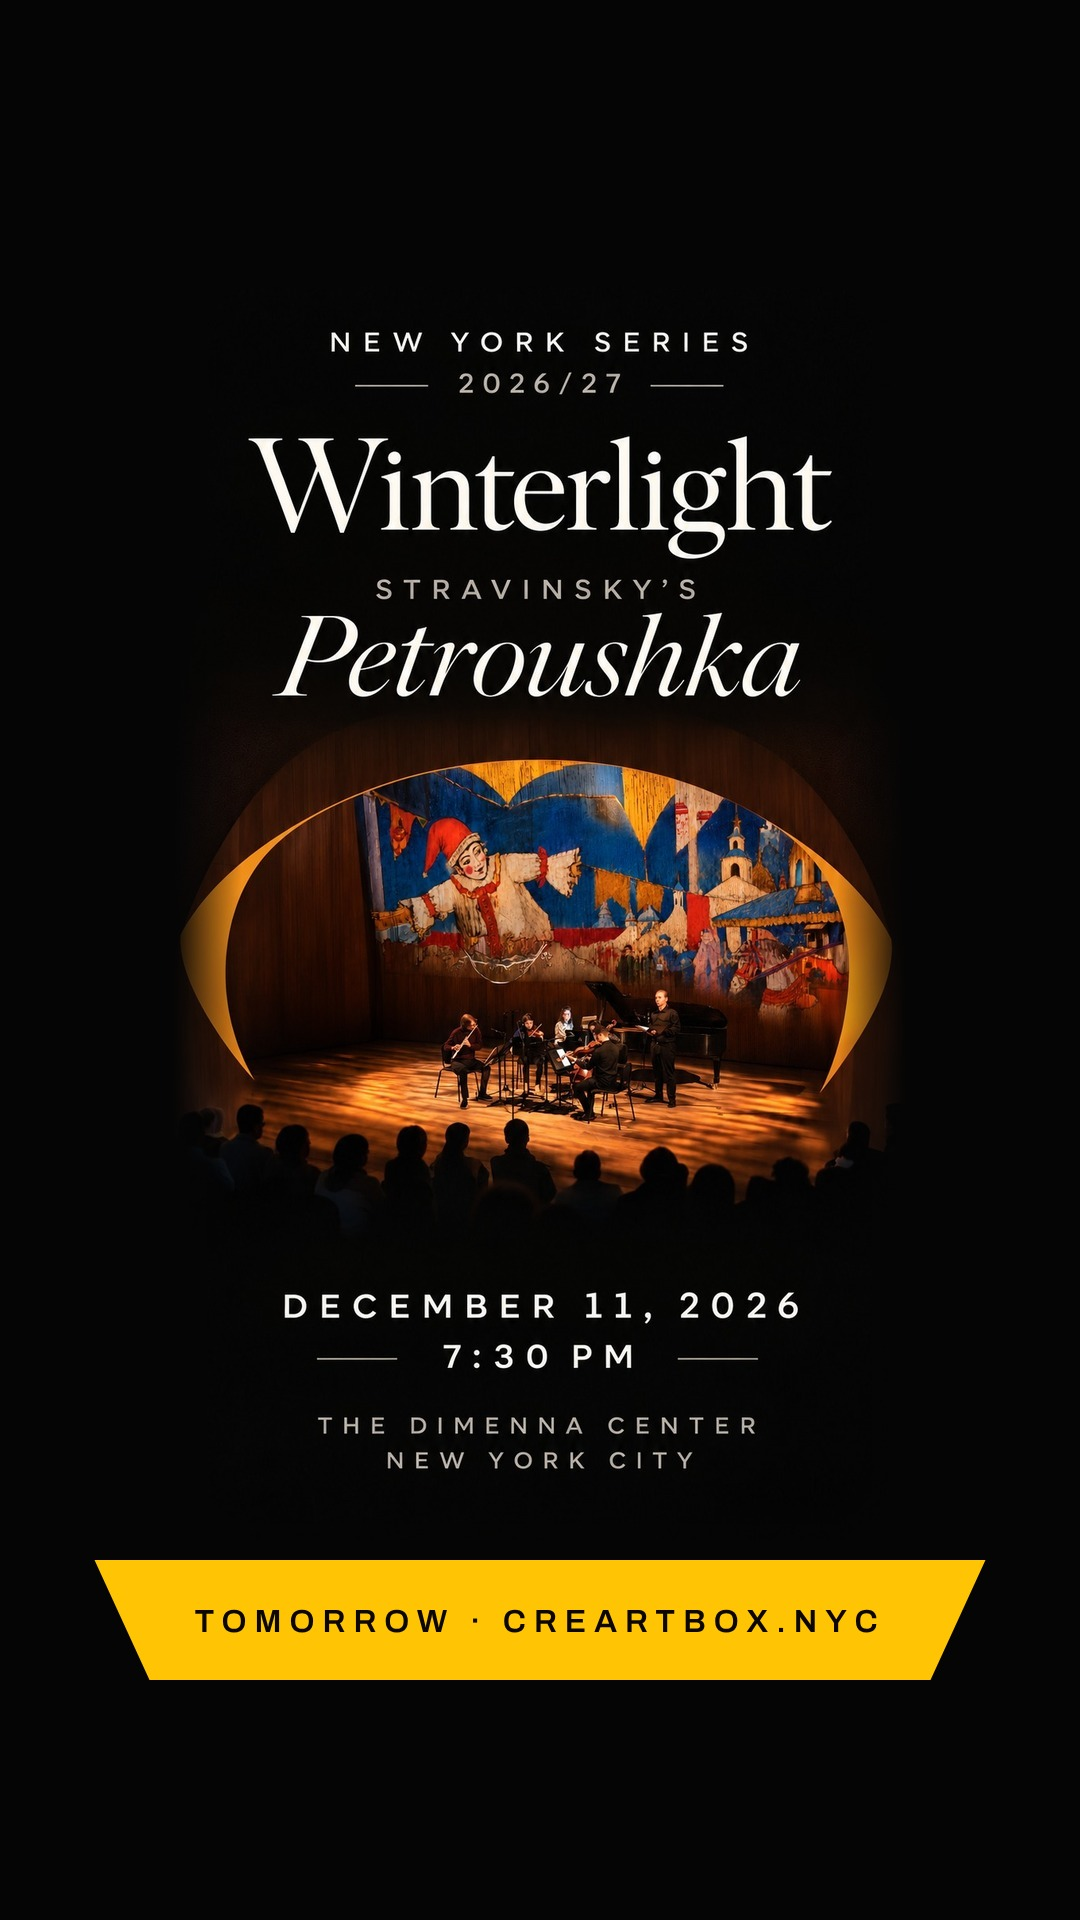
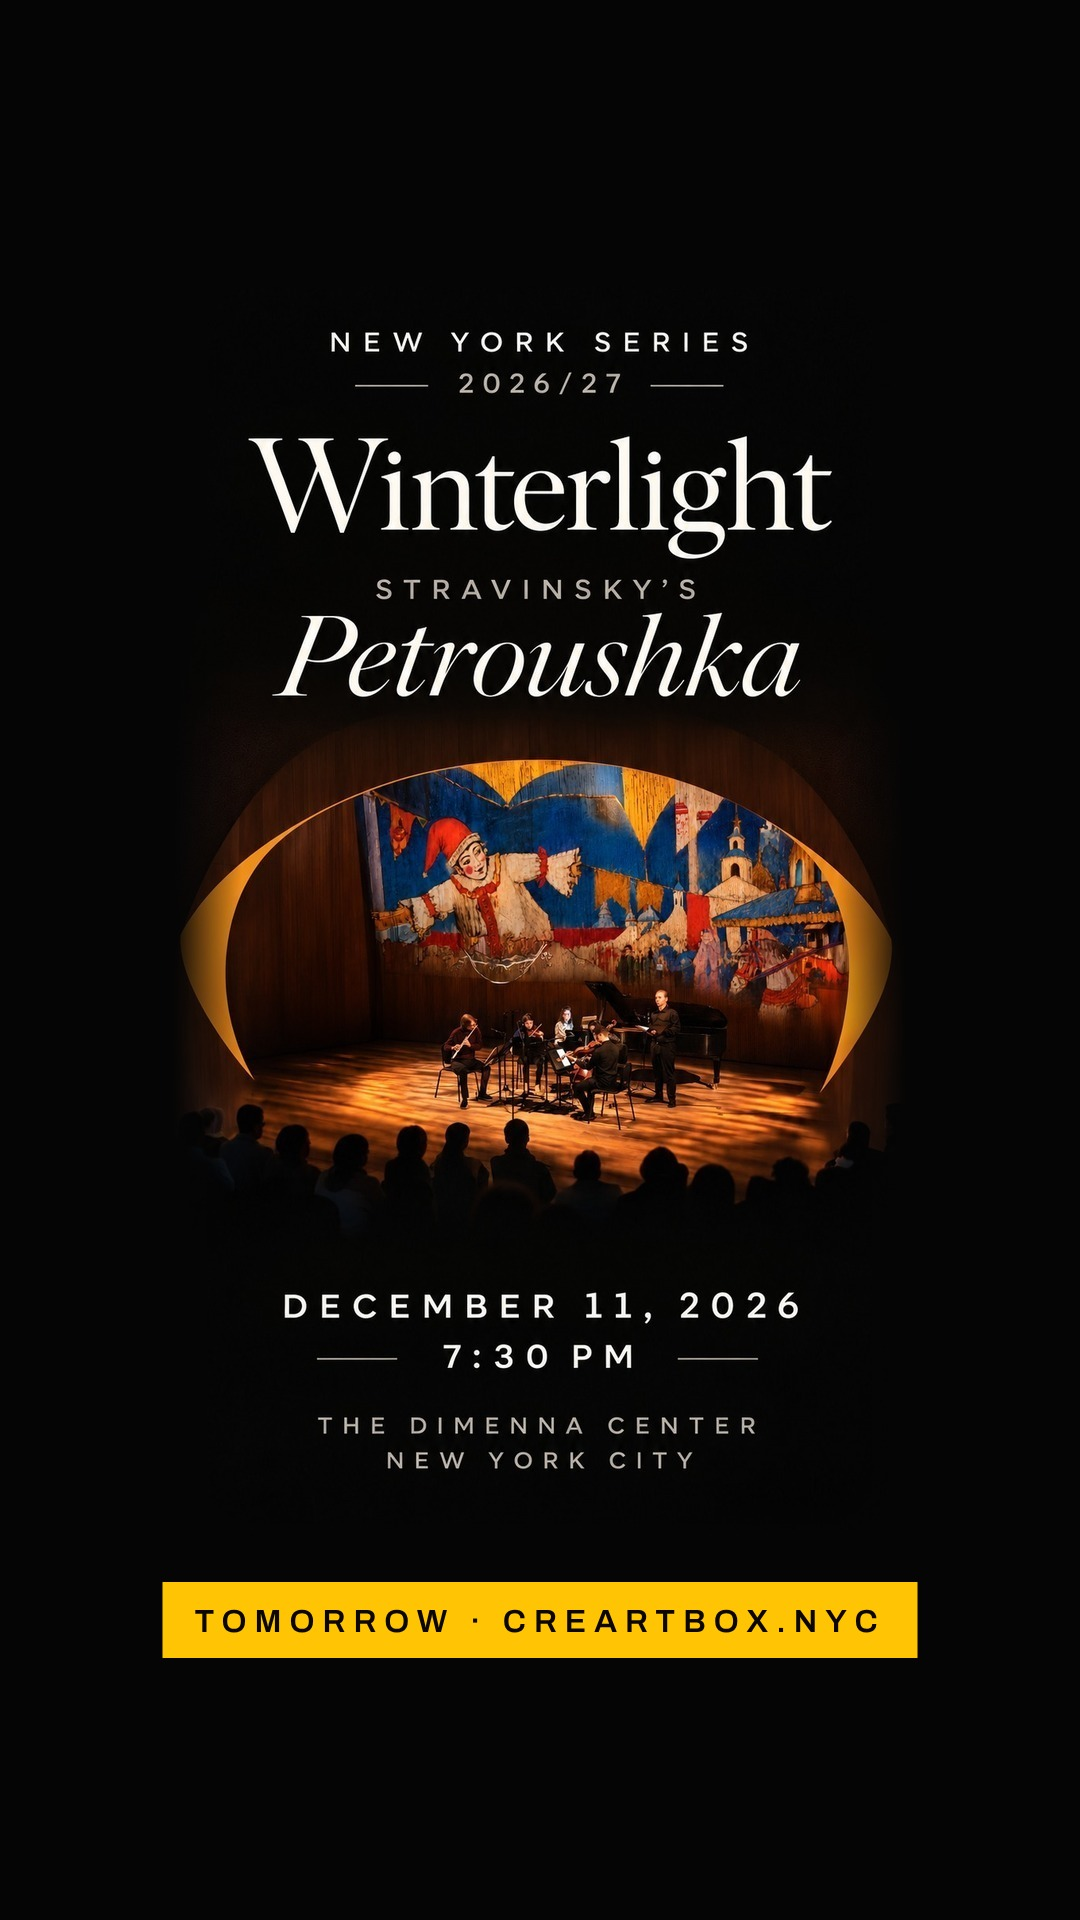
CreArtBox: el trapecio pasa a ser un sello pequeño con el nombre (como una discográfica) y los datos van en cajas rectas encima del titular; cola redibujada
Claude-Session: https://claude.ai/code/session_0135dvaV41U2wFKvXfjD2MLS

Changed region(s): [[0.0917, 0.8125, 0.9167, 0.875]]

diff --git a/motor.js b/motor.js
@@ -443,18 +443,42 @@ export function crearMotor(B) {
       }
     }
 
+    // The brand stamp. CreArtBox's is a small amber trapezoid with its name
+    // inside, like a record label's cartouche (Nov 26); ADAR keeps the text.
+    function sello(x, y) {
+      if (!SELLO) return;
+      if (B.firma !== 'trapecio') { ctx.fillText(SELLO, x, y); return; }
+      const antes = { font: ctx.font, fill: ctx.fillStyle, align: ctx.textAlign };
+      const t = Math.round(rotSize * 1.05);
+      ctx.font = `${B.labelWeight} ${t}px ${LABEL}`;
+      try { ctx.letterSpacing = Math.round(t * 0.3) + 'px'; } catch {}
+      const w = ctx.measureText(SELLO).width;
+      const h = Math.round(t * 2.3), ancho = Math.round(w + t * 2.6), inclina = Math.round(h * 0.4);
+      const x0 = antes.align === 'center' ? x - ancho / 2 : antes.align === 'right' ? x - ancho : x;
+      const yc = y - t * 0.36, arriba = yc - h / 2;
+      ctx.beginPath();
+      ctx.moveTo(x0 + inclina, arriba); ctx.lineTo(x0 + ancho - inclina, arriba);
+      ctx.lineTo(x0 + ancho, arriba + h); ctx.lineTo(x0, arriba + h);
+      ctx.closePath();
+      ctx.fillStyle = B.accent; ctx.fill();
+      ctx.fillStyle = B.onAccent || B.ink; ctx.textAlign = 'center';
+      ctx.fillText(SELLO, x0 + ancho / 2 + t * 0.15, yc + t * 0.38);
+      sinEspaciado(ctx);
+      ctx.font = antes.font; ctx.fillStyle = antes.fill; ctx.textAlign = antes.align;
+    }
+
     function pegatinas(yInicio) {
       // En el muro solo si la ficha lo pide (`pegatinasMuro`): hay posts que
       // quieren el titular y los datos pegados a la foto, como la historia.
       // Solo en la portada; en Facebook nunca, que es apaisado y no cabe.
       const enMuro = post.pegatinasMuro && fmt === 'ig' && idx === 0;
       if ((fmt !== 'story' && !enMuro) || !post.pegatinas || !post.pegatinas.length) return;
-      if (B.firma === 'trapecio') return pegatinasTrapecio(yInicio);
       const alto = Math.round(W * 0.075);
       const cuerpo = Math.round(alto * 0.42);
       let y = yInicio ?? safeTop + Math.round(H * 0.055);
       // Sobre fondo ámbar, la pegatina de señal no se vería: va en negro.
-      const sobreAmbar = estilo === 'ambar';
+      // CreArtBox draws its notices on sala (ink), so its signal box stays amber.
+      const sobreAmbar = estilo === 'ambar' && B.firma !== 'trapecio';
       for (const peg of post.pegatinas.slice(0, 3)) {
         const texto = String(peg.texto || peg).toUpperCase();
         const senal = peg.senal === true;
@@ -466,7 +490,8 @@ export function crearMotor(B) {
         // Tres grados: lo justo para que se lea como algo pegado encima y no
         // como parte de la maqueta. Los bordes siguen rectos, que es la casa.
         ctx.translate(pad + ancho / 2, y + alto / 2);
-        ctx.rotate((-3 * Math.PI) / 180);
+        // CreArtBox: straight boxes. ADAR's are tilted, like tape.
+        ctx.rotate(B.firma === 'trapecio' ? 0 : (-3 * Math.PI) / 180);
         ctx.fillStyle = fondoPeg;
         ctx.fillRect(-ancho / 2, -alto / 2, ancho, alto);
         ctx.fillStyle = tintaPeg;
@@ -491,7 +516,7 @@ export function crearMotor(B) {
         ctx.fillStyle = trap ? B.ink : B.accent; ctx.fillRect(0, 0, W, H);
         const conPeg = (fmt === 'story' || (post.pegatinasMuro && fmt === 'ig')) && post.pegatinas && post.pegatinas.length;
         const arriba = pad + safeTop;
-        if (!conPeg) { rotulo(ctx, rotSize, tinta, Math.round(rotSize * 0.16)); ctx.fillText(SELLO, pad, arriba + rotSize); sinEspaciado(ctx); }
+        if (!conPeg) { rotulo(ctx, rotSize, tinta, Math.round(rotSize * 0.16)); sello(pad, arriba + rotSize); sinEspaciado(ctx); }
         const techo = conPeg ? safeTop + Math.round(H * 0.055) + Math.round(W * 0.075 * 1.35) * Math.min(3, post.pegatinas.length) + pad * 0.6 : arriba + rotSize * 2.4;
         // Si lleva logo, el titular le deja su hueco debajo.
         const conLogo = post.logo && post.logo.src && (fmt === 'story' ? post.logo.historia : (post.logo.diapositivas || []).includes(idx));
@@ -503,12 +528,11 @@ export function crearMotor(B) {
         ctx.font = `${TW} ${af.size}px ${DISPLAY}`; ctx.fillStyle = tinta;
         const ay = suelo - af.lines.length * af.size * PLOMO + af.size * 0.82;
         // CreArtBox centers it under its centered trapezoid, like its program cover.
-        const ax = trap ? W / 2 : pad;
+        const ax = pad;
         const raya = Math.round(W * 0.16);
-        ctx.fillRect(trap ? ax - raya / 2 : pad, ay - af.size * 1.15, raya, Math.max(5, Math.round(W * 0.008)));
-        if (trap) ctx.textAlign = 'center';
+        ctx.fillRect(pad, ay - af.size * 1.15, raya, Math.max(5, Math.round(W * 0.008)));
         af.lines.forEach((l, i) => ctx.fillText(l, ax, ay + i * af.size * PLOMO));
-        if (conPeg) { rotulo(ctx, rotSize, tinta, Math.round(rotSize * 0.16)); ctx.fillText(SELLO, ax, H - safeBottom - Math.round(pad * 0.55)); sinEspaciado(ctx); }
+        if (conPeg) { rotulo(ctx, rotSize, tinta, Math.round(rotSize * 0.16)); sello(ax, H - safeBottom - Math.round(pad * 0.55)); sinEspaciado(ctx); }
         ctx.textAlign = 'left';
         pegatinas();
         await logo(post.logo && (fmt === 'story' ? post.logo.historia : (post.logo.diapositivas || []).includes(idx)));
@@ -526,7 +550,7 @@ export function crearMotor(B) {
         if (post.adorno === 'navidad') navidad();
         const arriba = pad + safeTop;
         rotulo(ctx, rotSize, B.overPhotoInk, Math.round(rotSize * 0.16));
-        ctx.fillText(SELLO, pad, arriba + rotSize);
+        sello(pad, arriba + rotSize);
         sinEspaciado(ctx);
         const cf = encajar(ctx, slide.title, W - pad * 2 - safeRight, H * 0.24, TW, DISPLAY, Math.round(W * 0.15), Math.round(W * 0.06), PLOMO);
         ctx.font = `${TW} ${cf.size}px ${DISPLAY}`; ctx.fillStyle = B.overPhotoInk;
@@ -565,7 +589,7 @@ export function crearMotor(B) {
 
         const bTop = H - bandH + Math.round(pad * 0.75);
         rotulo(ctx, rotSize, TINTA_DIM, Math.round(rotSize * 0.16));
-        ctx.fillText(SELLO, pad, bTop + rotSize);
+        sello(pad, bTop + rotSize);
         sinEspaciado(ctx);
         const bAvail = bandH - Math.round(pad * 0.75) - rotSize * 3.4 - safeBottom;
         const bfit = encajar(ctx, slide.title, W - pad * 2 - safeRight, bAvail, TW, DISPLAY, Math.round(W * 0.070), Math.round(W * 0.032), PLOMO);
@@ -674,7 +698,7 @@ export function crearMotor(B) {
 
         const arriba = pad + safeTop;
         rotulo(ctx, rotSize, TINTA_DIM, Math.round(rotSize * 0.16));
-        ctx.fillText(SELLO, pad, arriba + rotSize);
+        sello(pad, arriba + rotSize);
         sinEspaciado(ctx);
 
         // Las líneas de abajo (fecha, hora, sitio) se reservan su sitio antes
@@ -874,7 +898,7 @@ export function crearMotor(B) {
 
         let y = pad + safeTop + rotSize;
         rotulo(ctx, rotSize, B.paper, Math.round(rotSize * 0.2));
-        ctx.fillText(SELLO, centro, y);
+        sello(centro, y);
         sinEspaciado(ctx);
 
         if (post.kicker) {
@@ -965,15 +989,16 @@ export function crearMotor(B) {
       const fit = encajar(ctx, slide.title, W - pad * 2 - safeRight, maxTitleH, TW, DISPLAY, Math.round(W * 0.072), Math.round(W * 0.034), PLOMO);
       const lineH = Math.round(fit.size * PLOMO);
       // With CreArtBox's trapezoid at the bottom, the title sits just above it.
-      const conTrapecio = trapecioAbajo();
-      const baseY = conTrapecio ? trapecioAbajoTop() - Math.round(pad * 0.75) : H - pad - safeBottom;
+      const conTrapecio = false;
+      const baseY = H - pad - safeBottom;
       const startY = baseY - fit.lines.length * lineH + lineH * 0.8;
 
       ctx.fillStyle = B.accent;
-      ctx.fillRect(pad, startY - lineH * 0.8 - Math.round(rotSize * 2.2), Math.round(W * 0.09), Math.max(3, Math.round(W * 0.005)));
+      // CreArtBox's cartouche is already the signal; no rule above it.
+      if (B.firma !== 'trapecio') ctx.fillRect(pad, startY - lineH * 0.8 - Math.round(rotSize * 2.2), Math.round(W * 0.09), Math.max(3, Math.round(W * 0.005)));
       // Una señal por pantalla: la lleva el filete. El sello baja a dim.
       rotulo(ctx, rotSize, TINTA_DIM, Math.round(rotSize * 0.16));
-      ctx.fillText(SELLO, pad, startY - lineH * 0.8 - Math.round(rotSize * 0.75));
+      sello(pad, startY - lineH * 0.8 - Math.round(rotSize * (B.firma === 'trapecio' ? 1.5 : 0.75)));
       sinEspaciado(ctx);
 
       ctx.font = `${TW} ${fit.size}px ${DISPLAY}`;
@@ -985,7 +1010,14 @@ export function crearMotor(B) {
         ctx.fillText(SITIO, pad, H - Math.round(pad * 0.4) - safeBottom);
         sinEspaciado(ctx);
       }
-      pegatinas();
+      // CreArtBox over a photo: the boxes stack just above the title, where
+      // they don't cover faces (at the top they did).
+      const nCajas = Math.min(3, (post.pegatinas || []).length);
+      if (B.firma === 'trapecio' && nCajas) {
+        const alto = Math.round(W * 0.075);
+        const fondo = startY - lineH * 0.8 - Math.round(rotSize * 4.2);
+        pegatinas(fondo - (nCajas - 1) * Math.round(alto * 1.35) - alto);
+      } else pegatinas();
       return;
     }
 
@@ -1075,7 +1107,7 @@ export function crearMotor(B) {
     rotulo(ctx, rotSize, tPie, Math.round(rotSize * 0.12));
     ctx.fillText(`${String(idx + 1).padStart(2, '0')} / ${String(total).padStart(2, '0')}`, pad, footY);
     ctx.textAlign = 'right';
-    ctx.fillText(SELLO, W - pad, footY);
+    sello(W - pad, footY);
     ctx.textAlign = 'left';
     sinEspaciado(ctx);
     await logo(post.logo && (post.logo.diapositivas || []).includes(idx));
